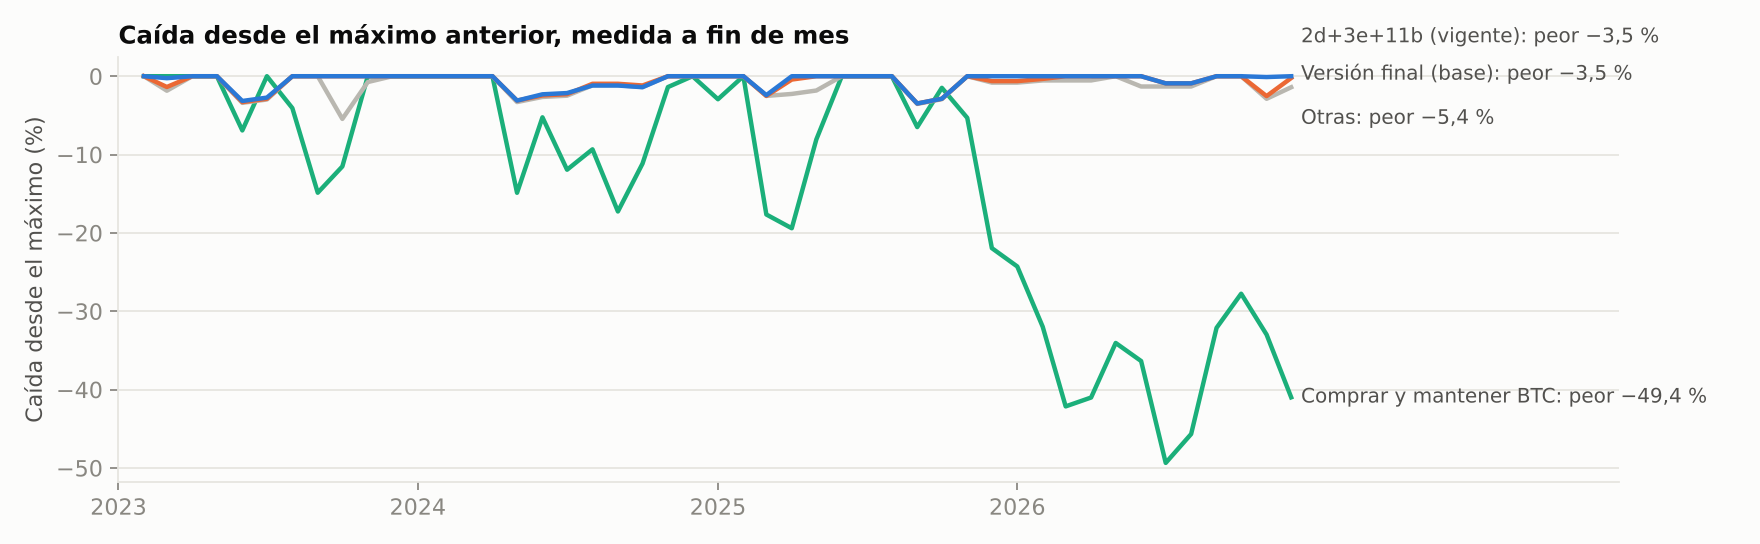
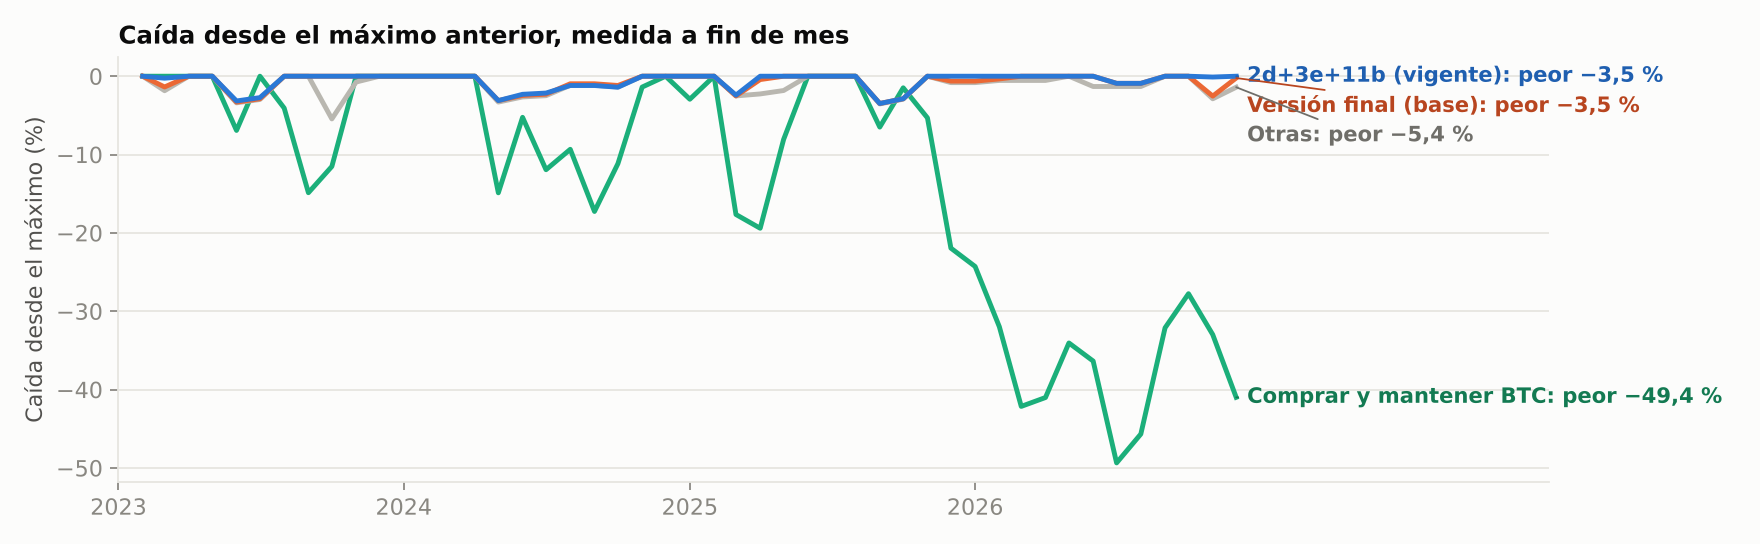
Label resumen-ilustrado charts at line ends instead of a legend
Series labels now sit at the end of each line in the series color, with
their final values, and the legend box that overlapped the lines is
removed. Applied to the capital and drawdown charts.

diff --git a/binance-research/multitf/graficos.py b/binance-research/multitf/graficos.py
@@ -126,14 +126,34 @@ def mapa(d):
     fig.savefig(os.path.join(IMG, "mt-mapa-meses.png"), dpi=160)
 
 
+def end_labels(ax, x, ends, texts, log):
+    """Etiquetas al final de cada línea, con el color de la serie y separadas para no montarse."""
+    txt_col = {"btc": "#137a52", "otras": "#6f6e69", "final": "#b8451f", "nueva": "#1f5fb0"}
+    f = np.log10 if log else (lambda v: v)
+    inv = (lambda v: 10 ** v) if log else (lambda v: v)
+    gap = 0.085 if log else (ax.get_ylim()[1] - ax.get_ylim()[0]) * 0.07
+    order = sorted(ends, key=lambda k: ends[k], reverse=True)
+    pos = {k: f(ends[k]) for k in order}
+    for a, b in zip(order, order[1:]):
+        if pos[a] - pos[b] < gap:
+            pos[b] = pos[a] - gap
+    for k in order:
+        ax.annotate(texts[k], xy=(x[-1], ends[k]), xytext=(x[-1] + pd.Timedelta(days=14), inv(pos[k])),
+                    textcoords="data", va="center", fontsize=9.5, fontweight="bold", color=txt_col[k],
+                    arrowprops=dict(arrowstyle="-", color=txt_col[k], lw=0.8, shrinkA=2, shrinkB=0))
+
+
 def capital(d):
     eq = 100 * (1 + d).cumprod()
     x = pd.PeriodIndex(eq.index, freq="M").to_timestamp(how="end")
     fig, ax = plt.subplots(figsize=(11, 4.6))
     for k, c, n in (("btc", AQUA, N_BTC), ("otras", GREY, N_OLD), ("final", ORANGE, N_FIN), ("nueva", BLUE, N_NEW)):
-        ax.plot(x, eq[k], color=c, lw=2, label=n)
-        ax.text(x[-1] + pd.Timedelta(days=12), eq[k].iloc[-1] * {"nueva": 1.16, "final": 0.99, "otras": 1.04, "btc": 0.9}.get(k, 1.0),
-                f"{n}: {eq[k].iloc[-1]:,.0f} USDT".replace(",", "."), va="center", fontsize=9, color=INK2)
+        ax.plot(x, eq[k], color=c, lw=2.2)
+    end_labels(ax, x, {k: eq[k].iloc[-1] for k in ("btc", "otras", "final", "nueva")},
+               {"nueva": f"{N_NEW}: {eq['nueva'].iloc[-1]:,.0f} USDT".replace(",", "."),
+                "final": f"{N_FIN}: {eq['final'].iloc[-1]:,.0f} USDT".replace(",", "."),
+                "otras": f"{N_OLD}: {eq['otras'].iloc[-1]:,.0f} USDT".replace(",", "."),
+                "btc": f"{N_BTC}: {eq['btc'].iloc[-1]:,.0f} USDT".replace(",", ".")}, log=True)
     ax.set_yscale("log")
     ax.set_yticks([100, 200, 300, 500, 700], ["100", "200", "300", "500", "700"])
     ax.minorticks_off()
@@ -141,16 +161,16 @@ def capital(d):
     ax.set_xlim(x[0], x[-1] + pd.Timedelta(days=400))
     ax.set_xticks(pd.to_datetime([f"{a}-01-01" for a in (2023, 2024, 2025, 2026)]), ["2023", "2024", "2025", "2026"])
     ax.set_ylabel("Capital (USDT, escala logarítmica)")
-    ax.legend(frameon=False, loc="upper left")
     ax.set_title("100 USDT desde enero de 2023 (backtest, después de costos)")
     fig.tight_layout()
     fig.savefig(os.path.join(IMG, "mt-capital.png"), dpi=160)
     dd = 100 * (eq / eq.cummax() - 1)
     fig, ax = plt.subplots(figsize=(11, 3.4))
     for k, c, n in (("btc", AQUA, N_BTC), ("otras", GREY, N_OLD), ("final", ORANGE, N_FIN), ("nueva", BLUE, N_NEW)):
-        ax.plot(x, dd[k], color=c, lw=2, label=n)
-        ax.text(x[-1] + pd.Timedelta(days=12), dd[k].iloc[-1] + {"nueva": 5.0, "final": 0.5, "otras": -4.0}.get(k, 0.0),
-                f"{n}: peor {pct(dd[k].min())}", va="center", fontsize=9, color=INK2)
+        ax.plot(x, dd[k], color=c, lw=2.2)
+    end_labels(ax, x, {k: dd[k].iloc[-1] for k in ("btc", "otras", "final", "nueva")},
+               {k: f"{n}: peor {pct(dd[k].min())}" for k, n in (("nueva", N_NEW), ("final", N_FIN), ("otras", N_OLD), ("btc", N_BTC))},
+               log=False)
     ax.yaxis.grid(True, color=GRID, lw=0.8)
     ax.set_xlim(x[0], x[-1] + pd.Timedelta(days=400))
     ax.set_xticks(pd.to_datetime([f"{a}-01-01" for a in (2023, 2024, 2025, 2026)]), ["2023", "2024", "2025", "2026"])
